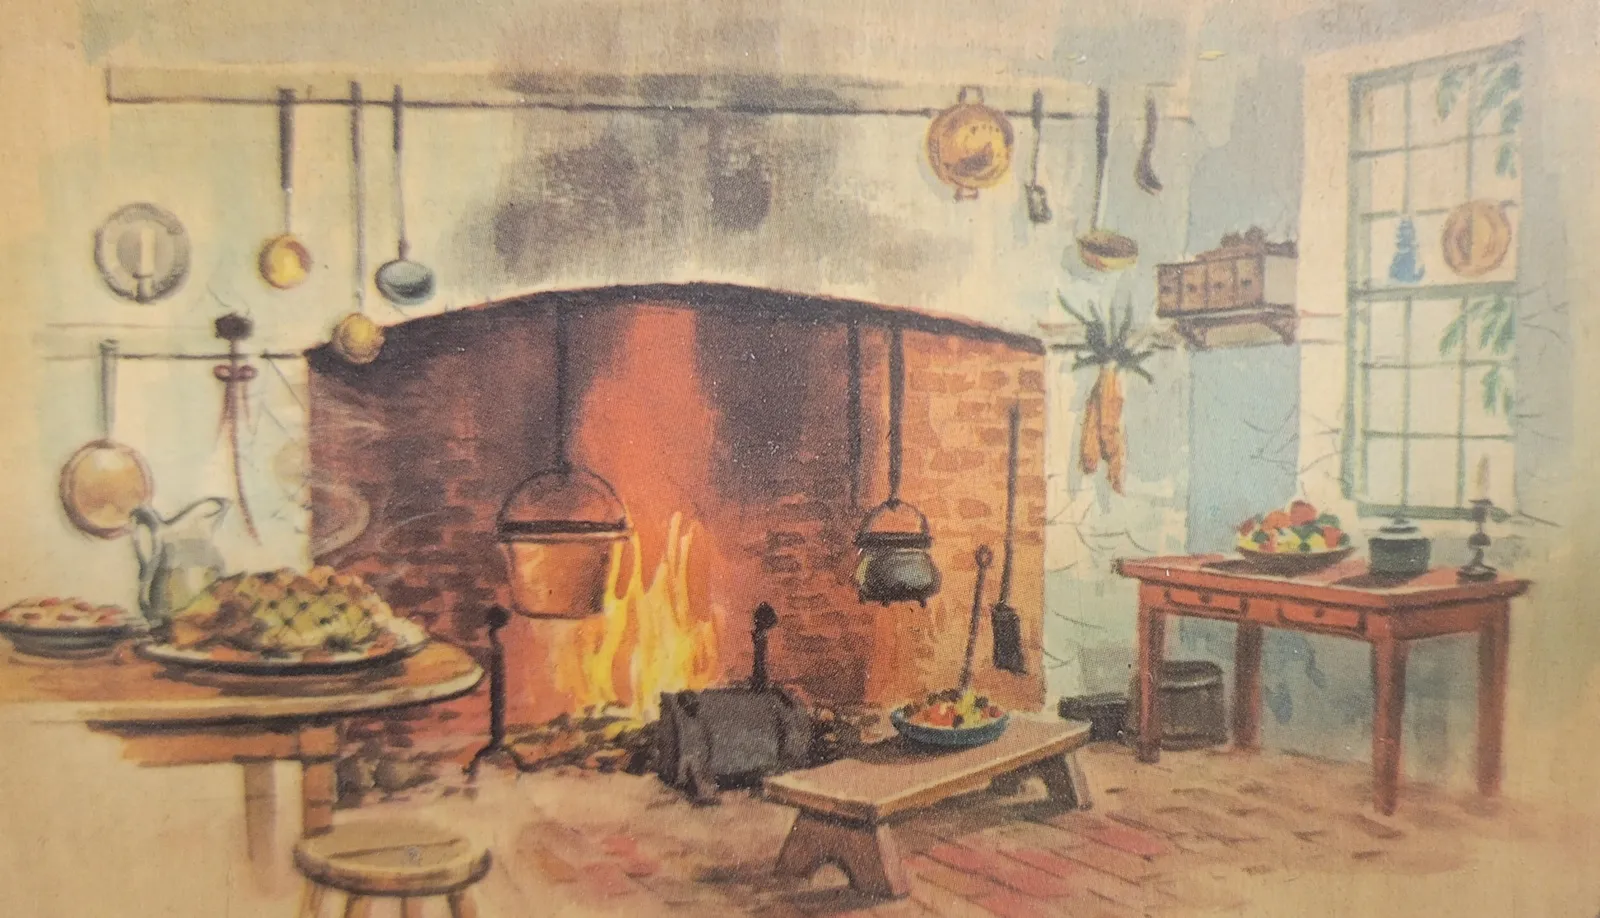
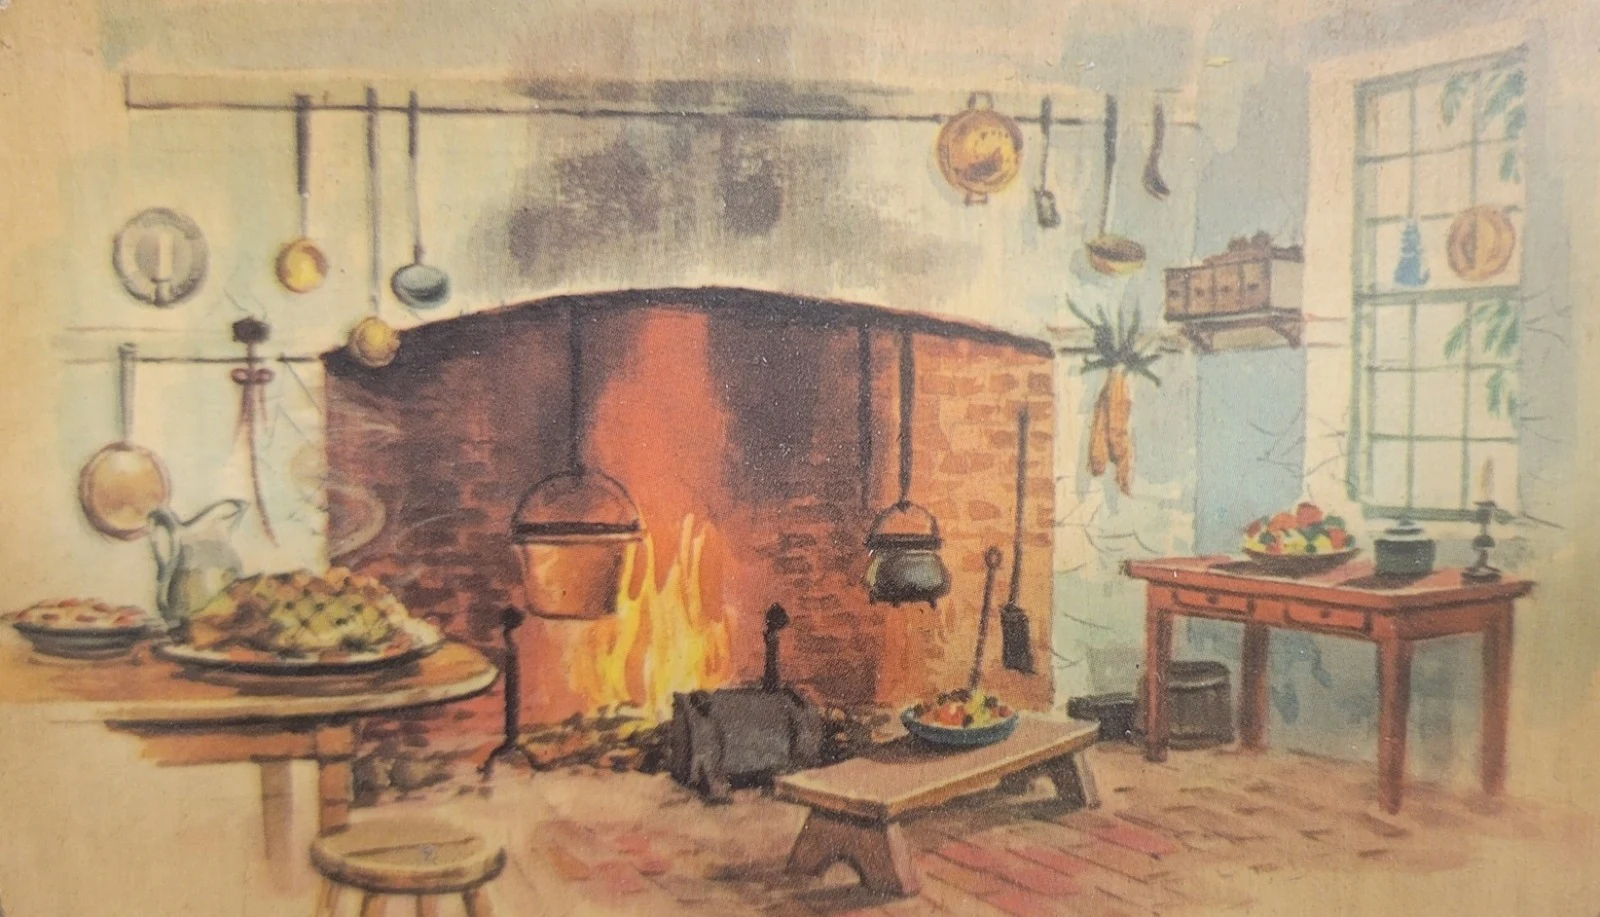
Approved hearth header; show the whole painting (no crop)

diff --git a/index.html b/index.html
@@ -37,8 +37,8 @@ header.site .wrap{display:flex;align-items:center;justify-content:space-between;
 .share-cta p{margin:0}
 .navbtn .count{background:var(--accent);color:#fff;border-radius:999px;padding:0 7px;font-size:.75rem;font-weight:600}
 .hero{padding:24px 0 24px}
-.hearth{margin:0 0 28px;border-radius:18px;overflow:hidden;box-shadow:var(--shadow);aspect-ratio:16/7;background:#3a2a20}
-.hearth img{width:100%;height:100%;object-fit:cover;display:block}
+.hearth{margin:0 0 28px;border-radius:18px;overflow:hidden;box-shadow:var(--shadow);background:#3a2a20}
+.hearth img{width:100%;height:auto;display:block}
 .hero h1{font-family:Fraunces,Georgia,serif;font-size:clamp(2rem,6vw,3.2rem);line-height:1.1;margin:0 0 10px}
 .hero p{color:var(--muted);margin:0;max-width:560px}
 .controls{display:flex;flex-wrap:wrap;gap:10px;align-items:center;margin:24px 0}
@@ -166,7 +166,7 @@ function home(){
   const cats = ['All', ...Array.from(new Set(R.map(r=>r.category))).sort((a,b)=>{const i=CAT_ORDER.indexOf(a),j=CAT_ORDER.indexOf(b);return (i<0?99:i)-(j<0?99:j);})];
   app.innerHTML = `
     <section class="hero">
-      <figure class="hearth"><img src="hearth.webp" alt="Painting of an old colonial kitchen hearth, from the front of the family recipe box" width="1600" height="929"></figure>
+      <figure class="hearth"><img src="hearth.webp" alt="Painting of an old colonial kitchen hearth, from the front of the family recipe box" width="1600" height="917"></figure>
       <h1>What are we cooking?</h1>
       <p>Our go-to recipes, plus the cards from the family recipe box, kept just as they were written. Tap a recipe to cook from it, check off ingredients, or add it to the shopping list.</p>
     </section>
